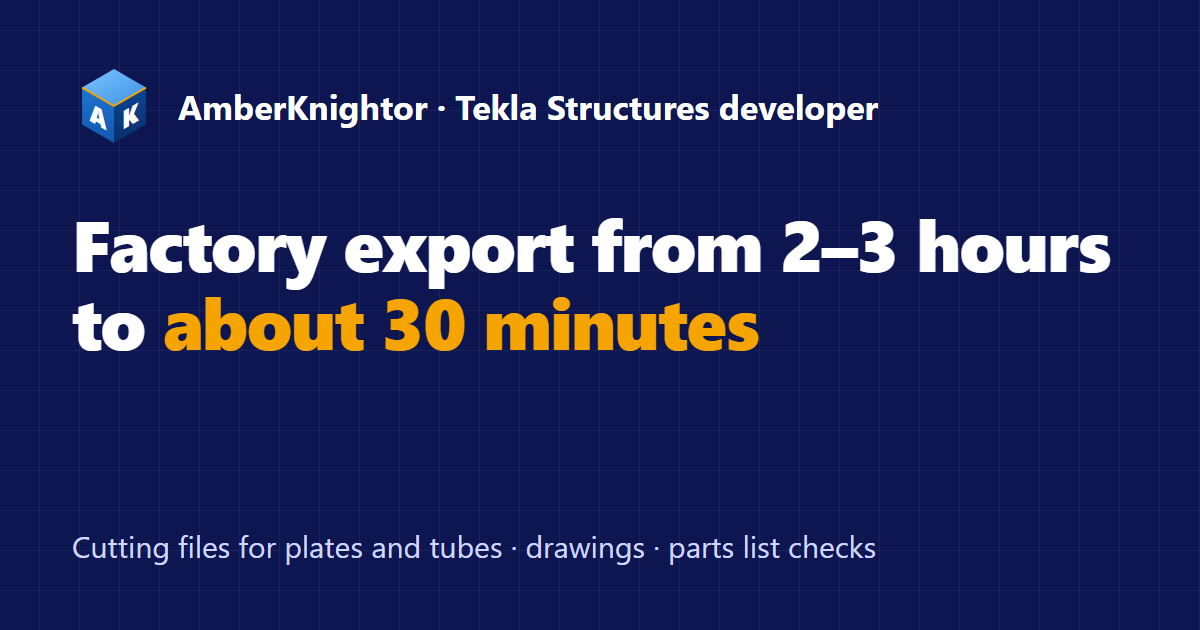
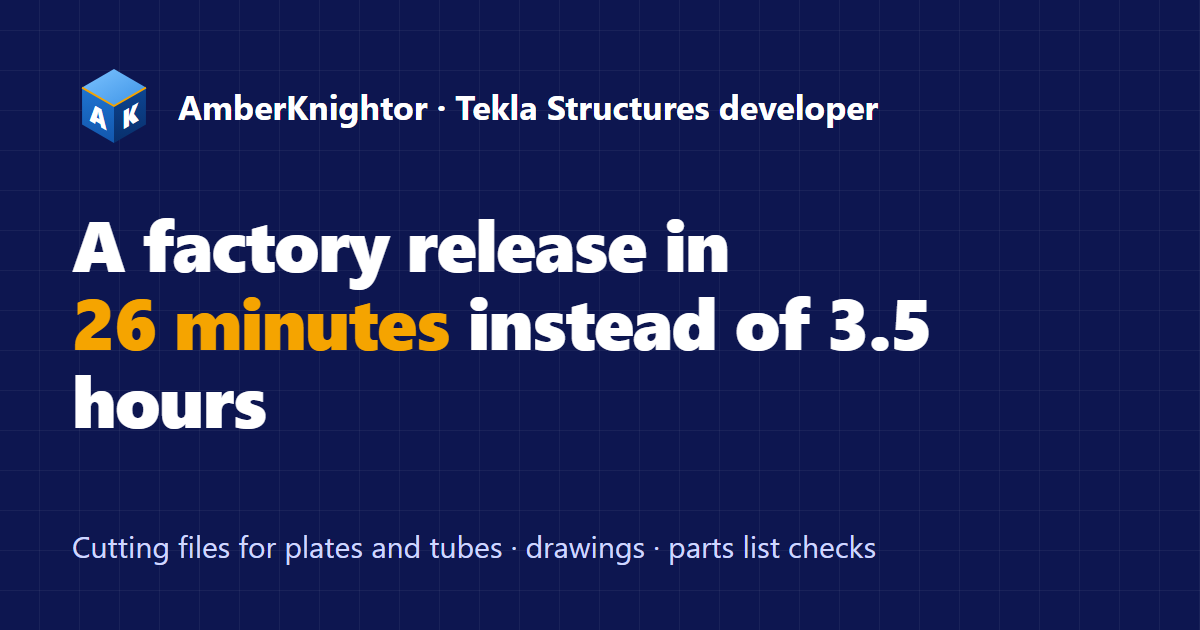
One set of numbers, Services heading, static video embeds, alt texts
The case study, hero and social card now tell the same story: one release
by one designer, about 3.5 hours by hand and about 26 minutes with the
tools, with the team saving derived from 10 designers and 3-4 releases a
month. Videos are plain iframes so they show without the script, the
workflow steps are no longer a numbered list, every image has alt text,
FAQ says all Tekla versions from 2016 and UTC+3, and the code sample link
is back now that its repository exists.

Changed region(s): [[0.0617, 0.3317, 0.925, 0.6937]]

diff --git a/index.html b/index.html
@@ -4,15 +4,15 @@
 <meta charset="utf-8">
 <meta name="viewport" content="width=device-width, initial-scale=1">
 <title>AmberKnightor — Tekla Structures Developer</title>
-<meta name="description" content="Tekla Open API tools, plugins and macros that cut the factory export from 2–3 hours to about 30 minutes per designer.">
+<meta name="description" content="Tekla Open API tools, plugins and macros that cut a factory release from about 3.5 hours to about 26 minutes per designer.">
 <meta property="og:title" content="AmberKnightor — Tekla Structures Developer">
-<meta property="og:description" content="Tekla Open API tools, plugins and macros: factory export from 2–3 hours down to ~30 minutes per designer.">
+<meta property="og:description" content="Tekla Open API tools, plugins and macros: a factory release from about 3.5 hours down to about 26 minutes per designer.">
 <link rel="canonical" href="https://amberknightor.github.io/">
 <meta property="og:url" content="https://amberknightor.github.io/">
 <meta property="og:image" content="https://amberknightor.github.io/assets/img/og-card.png">
 <meta property="og:image:width" content="1200">
 <meta property="og:image:height" content="630">
-<meta property="og:image:alt" content="AmberKnightor, Tekla Structures developer: factory export from 2–3 hours to about 30 minutes">
+<meta property="og:image:alt" content="AmberKnightor, Tekla Structures developer: factory release from about 3.5 hours to under 30 minutes">
 <meta property="og:type" content="website">
 <meta name="twitter:card" content="summary_large_image">
 <link rel="icon" href="favicon.ico" sizes="32x32">
@@ -27,7 +27,7 @@
 
 <header class="nav">
   <div class="wrap nav-row">
-    <a class="brand" href="#top"><img class="brand-logo" src="assets/img/logo-ak.svg" alt="" width="38" height="38"> AmberKnightor</a>
+    <a class="brand" href="#top"><img class="brand-logo" src="assets/img/logo-ak.svg" alt="AK logo" width="38" height="38"> AmberKnightor</a>
     <nav class="nav-links">
       <a href="#services">Services</a>
       <a href="#case">Case study</a>
@@ -51,7 +51,7 @@
         steel structures designer in Tekla, so I know from the inside every problem that comes up while
         building models and releasing data to the factory. For the last 3 years I have been building plugins,
         applications and macros that automate and simplify work in Tekla Structures.</p>
-      <h1>Tekla developer who turns a <span class="hl">3-hour factory export</span> into a 30-minute routine.</h1>
+      <h1>Tekla developer who turns a <span class="hl">3.5-hour factory release</span> into under 30 minutes.</h1>
       <p class="lead">I build desktop tools, plugins and macros on the Tekla Open API for a steel-structures
         design team: DXF for plate cutting, STEP for tube lasers, assembly drawings, reports and
         cross-checks — generated from the model and deployed to every workstation from one server folder.</p>
@@ -64,18 +64,18 @@
     </div>
 
     <div class="impact card">
-      <p class="impact-title">Factory data export, per designer</p>
+      <p class="impact-title">One factory release, one designer</p>
       <div class="bar-row">
         <span class="bar-label">Before</span>
-        <div class="bar"><div class="bar-fill before" style="--w:100%"><span>2–3 hours</span></div></div>
+        <div class="bar"><div class="bar-fill before" style="--w:100%"><span>≈ 3.5 hours</span></div></div>
       </div>
       <div class="bar-row">
         <span class="bar-label">After</span>
-        <div class="bar"><div class="bar-fill after" style="--w:20%"><span>~30 min</span></div></div>
+        <div class="bar"><div class="bar-fill after" style="--w:12%"><span>≈ 26 min</span></div></div>
       </div>
       <div class="impact-stats">
-        <div><strong>≈ 1 week</strong><span>saved every month for the design team</span></div>
-        <div><strong>5×</strong><span>faster release of cutting files, drawings and BOMs</span></div>
+        <div><strong>≈ 8×</strong><span>faster: about 3 hours saved on every release</span></div>
+        <div><strong>90–120 h</strong><span>saved a month for a team of 10 designers</span></div>
       </div>
     </div>
   </div>
@@ -126,7 +126,7 @@
 <section class="section alt" id="case">
   <div class="wrap">
     <h2>Case study: a steel structures design team</h2>
-    <p class="section-lead">How the release of data to the factory went from a half-day job to a short routine.</p>
+    <p class="section-lead">One factory release by one designer: about 3.5 hours by hand, about 26 minutes with the tools.</p>
     <div class="case-steps">
       <div class="card">
         <p class="case-label">Task</p>
@@ -144,30 +144,30 @@
     <div class="table-wrap">
       <table class="case-table">
         <thead>
-          <tr><th scope="col">Step</th><th scope="col">Batch</th><th scope="col">Before</th><th scope="col">After</th></tr>
+          <tr><th scope="col">Step</th><th scope="col">Batch</th><th scope="col">Before</th><th scope="col">After</th><th scope="col">Notes</th></tr>
         </thead>
         <tbody>
-          <tr><th scope="row">Plate cutting files</th><td>300 plates</td><td>≈ 30 min</td><td class="after">≈ 6 min <small>5 min automatic, 1 min review that is rarely needed</small></td></tr>
-          <tr><th scope="row">Tube cutting files</th><td>140 tubes</td><td>≈ 1 hour</td><td class="after">≈ 10 min <small>straightening and engraving included</small></td></tr>
-          <tr><th scope="row">Assembly drawings</th><td>100 assemblies</td><td>≈ 2 hours</td><td class="after">≈ 10 min <small>nearly finished drawings</small></td></tr>
+          <tr><th scope="row">Plate cutting files</th><td>300 plates</td><td>≈ 30 min</td><td class="after">≈ 6 min</td><td class="note">5 min automatic, plus 1 min of review that is rarely needed</td></tr>
+          <tr><th scope="row">Tube cutting files</th><td>140 tubes</td><td>≈ 1 hour</td><td class="after">≈ 10 min</td><td class="note">skewed cuts straightened and marks engraved automatically</td></tr>
+          <tr><th scope="row">Assembly drawings</th><td>100 assemblies</td><td>≈ 2 hours</td><td class="after">≈ 10 min</td><td class="note">drawings come out nearly finished</td></tr>
         </tbody>
         <tfoot>
-          <tr><th scope="row">All three</th><td></td><td>≈ 3.5 hours</td><td class="after">≈ 26 min</td></tr>
+          <tr><th scope="row">One release</th><td>one designer</td><td>≈ 3.5 hours</td><td class="after">≈ 26 min</td><td class="note">about 8× faster</td></tr>
         </tfoot>
       </table>
     </div>
-    <p class="case-note"><b>How to read these numbers.</b> They are practical estimates from production work for
-      batches of the sizes shown, not a timed study, and your own results will depend on the model. The 2–3 hours
-      at the top of this page is the usual full export for one designer; a release with all three batches at these
-      sizes takes longer.</p>
+    <p class="case-note"><b>How these numbers add up.</b> The times are one designer’s practical
+      estimates for a release with batches of the sizes shown, not a timed study. The team had about 10 designers,
+      and each released data to the factory 3–4 times a month. About 3 hours saved per release gives 9–12 hours
+      per designer a month, or roughly 90–120 hours for the team.</p>
   </div>
 </section>
 
 <!-- ============================================================ SERVICES -->
 <section class="section" id="services">
   <div class="wrap">
-    <h2>What I can do for you</h2>
-    <p class="section-lead">Most projects start small, so you can judge the result on your own parts before
+    <h2>Services</h2>
+    <p class="section-lead">What I can do for you. Most projects start small, so you can judge the result on your own parts before
       committing to more.</p>
     <div class="cards">
       <div class="card service">
@@ -195,33 +195,33 @@
     <h2>One model, one click per step</h2>
     <p class="section-lead">Each tool starts from the Tekla toolbar, reads the current selection through the
       Open API and writes straight into the project folder the factory receives.</p>
-    <ol class="pipeline">
-      <li class="stage">
+    <div class="pipeline">
+      <div class="stage">
         <span class="stage-num">1</span>
         <h3>Tekla model</h3>
         <p>Select plates, tubes or assemblies — or open the drawing list.</p>
-      </li>
-      <li class="stage">
-        <img src="assets/img/icon-report-checker.png" alt="" width="48" height="48">
+      </div>
+      <div class="stage">
+        <img src="assets/img/icon-report-checker.png" alt="Report checker icon" width="48" height="48">
         <h3>Report checker</h3>
         <p>DXF for plate cutting, BOMs in .xlsx, checks, tags, folder layout.</p>
-      </li>
-      <li class="stage">
-        <img src="assets/img/icon-convertstp.png" alt="" width="48" height="48">
+      </div>
+      <div class="stage">
+        <img src="assets/img/icon-convertstp.png" alt="Convertstp icon" width="48" height="48">
         <h3>Convertstp</h3>
         <p>STEP / IGES for the tube laser with engraved part marks.</p>
-      </li>
-      <li class="stage">
-        <img src="assets/img/icon-drawer.png" alt="" width="48" height="48">
+      </div>
+      <div class="stage">
+        <img src="assets/img/icon-drawer.png" alt="Drawer icon" width="48" height="48">
         <h3>Drawer</h3>
         <p>Assembly and bent-plate drawings built and dimensioned automatically.</p>
-      </li>
-      <li class="stage">
+      </div>
+      <div class="stage">
         <span class="stage-num">✓</span>
         <h3>Factory package</h3>
         <p>Checked against the BOMs, mismatches highlighted back in the model.</p>
-      </li>
-    </ol>
+      </div>
+    </div>
 <pre class="tree"><code>Project\
   0. BOMs\                      0. Shipping marks · 1. Plate parts · 2. Profile parts · 4. Assemblies · 6. Steel
   1. Parts\
@@ -242,7 +242,7 @@
   <!-- Report checker -->
   <article class="tool wrap" id="report-checker">
     <div class="tool-head">
-      <img src="assets/img/icon-report-checker.png" alt="" width="64" height="64">
+      <img src="assets/img/icon-report-checker.png" alt="Report checker icon" width="64" height="64">
       <div>
         <h3>Report checker</h3>
         <p class="tool-sub">Plate DXF export, Tekla reports to .xlsx and cross-checks · Python + C# helper</p>
@@ -266,7 +266,7 @@
             missing, extra and wrong-quantity files are listed and the parts are <i>selected in Tekla</i>.</li>
           <li><b>Factory-ready folders.</b> Files renamed to <code>position_thickness_qty</code>, sorted by steel grade,
             thickness, tube type and profile; shipping tags generated as DXF.</li>
-          <li><b>Any Tekla version.</b> Open API assemblies are loaded from the running Tekla (2016 → 2024 layouts),
+          <li><b>Every Tekla version from 2016.</b> Open API assemblies are loaded from the running Tekla, old and new folder layouts alike,
             so one exe serves the whole team.</li>
         </ul>
       </div>
@@ -276,16 +276,14 @@
         <a href="assets/img/otchet-viewer.png" class="zoom"><img src="assets/img/otchet-viewer.png" alt="DXF viewer with plate contour, holes and the position mark" loading="lazy"></a>
         <figcaption>Built-in DXF viewer: every plate in the cutting folder, marks checked for collisions.</figcaption>
       </figure>
-      <div class="video-slot" data-youtube="R72VR7GYjIA" data-title="Report checker walkthrough">
-        <a href="https://www.youtube.com/watch?v=R72VR7GYjIA" target="_blank" rel="noopener">Watch the walkthrough on YouTube</a>
-      </div>
+      <div class="video-slot has-video"><iframe src="https://www.youtube-nocookie.com/embed/R72VR7GYjIA" title="Report checker: DXF plate export, Excel BOMs and automatic checks" loading="lazy" referrerpolicy="strict-origin-when-cross-origin" allow="accelerometer; encrypted-media; gyroscope; picture-in-picture" allowfullscreen></iframe></div>
     </div>
   </article>
 
   <!-- Convertstp -->
   <article class="tool wrap" id="convertstp">
     <div class="tool-head">
-      <img src="assets/img/icon-convertstp.png" alt="" width="64" height="64">
+      <img src="assets/img/icon-convertstp.png" alt="Convertstp icon" width="64" height="64">
       <div>
         <h3>Convertstp</h3>
         <p class="tool-sub">Tekla tubes → STEP / IGES for tube laser cutting · C# WinForms</p>
@@ -317,16 +315,14 @@
         <a href="assets/img/convertstp-engraving.png" class="zoom"><img src="assets/img/convertstp-engraving.png" alt="Engraving batch preview with tube faces and part marks" loading="lazy"></a>
         <figcaption>Engraving batch preview: tube faces to scale with the engraved part marks.</figcaption>
       </figure>
-      <div class="video-slot" data-youtube="OGKl_QOARAg" data-title="Convertstp walkthrough">
-        <a href="https://www.youtube.com/watch?v=OGKl_QOARAg" target="_blank" rel="noopener">Watch the walkthrough on YouTube</a>
-      </div>
+      <div class="video-slot has-video"><iframe src="https://www.youtube-nocookie.com/embed/OGKl_QOARAg" title="Convertstp: Tekla tubes to STEP and IGES with engraved part marks" loading="lazy" referrerpolicy="strict-origin-when-cross-origin" allow="accelerometer; encrypted-media; gyroscope; picture-in-picture" allowfullscreen></iframe></div>
     </div>
   </article>
 
   <!-- Drawer -->
   <article class="tool wrap" id="drawer">
     <div class="tool-head">
-      <img src="assets/img/icon-drawer.png" alt="" width="64" height="64">
+      <img src="assets/img/icon-drawer.png" alt="Drawer icon" width="64" height="64">
       <div>
         <h3>Drawer</h3>
         <p class="tool-sub">Automatic assembly and bent-plate drawings · C# · Tekla Drawing API</p>
@@ -359,9 +355,7 @@
         <a href="assets/img/drawer-bent.png" class="zoom"><img src="assets/img/drawer-bent.png" alt="Bent plate drawing with unfolded shape, bend line and radius" loading="lazy"></a>
         <figcaption>Bent plate: unfolded shape with the bend line, side views with radius, 3D view.</figcaption>
       </figure>
-      <div class="video-slot" data-youtube="fczEOQlvuvE" data-title="Drawer walkthrough">
-        <a href="https://www.youtube.com/watch?v=fczEOQlvuvE" target="_blank" rel="noopener">Watch the walkthrough on YouTube</a>
-      </div>
+      <div class="video-slot has-video"><iframe src="https://www.youtube-nocookie.com/embed/fczEOQlvuvE" title="Drawer: automatic assembly and bent-plate drawings in Tekla" loading="lazy" referrerpolicy="strict-origin-when-cross-origin" allow="accelerometer; encrypted-media; gyroscope; picture-in-picture" allowfullscreen></iframe></div>
     </div>
   </article>
 </section>
@@ -374,11 +368,11 @@
       launcher macros and a custom tab in <i>Applications &amp; components</i>.</p>
 
     <div class="icons-row">
-      <figure><img src="assets/img/icon-report-checker.png" alt="" width="72" height="72"><figcaption>Report checker</figcaption></figure>
-      <figure><img src="assets/img/icon-convertstp.png" alt="" width="72" height="72"><figcaption>Convertstp</figcaption></figure>
-      <figure><img src="assets/img/icon-drawer.png" alt="" width="72" height="72"><figcaption>Drawer</figcaption></figure>
-      <figure><img src="assets/img/icon-import-components.png" alt="" width="72" height="72"><figcaption>Import components</figcaption></figure>
-      <figure><img src="assets/img/icon-import-plugins.png" alt="" width="72" height="72"><figcaption>Import plugins</figcaption></figure>
+      <figure><img src="assets/img/icon-report-checker.png" alt="Report checker icon" width="72" height="72"><figcaption>Report checker</figcaption></figure>
+      <figure><img src="assets/img/icon-convertstp.png" alt="Convertstp icon" width="72" height="72"><figcaption>Convertstp</figcaption></figure>
+      <figure><img src="assets/img/icon-drawer.png" alt="Drawer icon" width="72" height="72"><figcaption>Drawer</figcaption></figure>
+      <figure><img src="assets/img/icon-import-components.png" alt="Import components macro icon" width="72" height="72"><figcaption>Import components</figcaption></figure>
+      <figure><img src="assets/img/icon-import-plugins.png" alt="Import plugins macro icon" width="72" height="72"><figcaption>Import plugins</figcaption></figure>
     </div>
     <p class="caption-center">Custom macro icons in the company tab of the Tekla catalog.</p>
 
@@ -466,7 +460,7 @@
       </ul>
     </div>
     <div class="card plugin-card">
-      <img src="assets/img/icon-import-plugins.png" alt="" width="96" height="96">
+      <img src="assets/img/icon-import-plugins.png" alt="Import plugins macro icon" width="96" height="96">
       <h3>Why it matters</h3>
       <p>A plugin re-runs whenever the model changes. Shipping a new plugin version to a workstation in the
         middle of a project could silently rebuild parts and break part numbering — so the distribution
@@ -501,7 +495,7 @@
     <h2>FAQ</h2>
     <details open>
       <summary>Which Tekla versions do you support?</summary>
-      <p>All versions of Tekla Structures from 2016 onward.</p>
+      <p>All versions of Tekla Structures from 2016 onward, including the current ones.</p>
     </details>
     <details>
       <summary>Do you need access to our model? Will you sign an NDA?</summary>
@@ -517,26 +511,22 @@
       <p>Scope, price and payment terms are agreed for each project before work starts.</p>
     </details>
     <details>
-      <summary>What language do you work in?</summary>
-      <p>English and Russian.</p>
+      <summary>What language and time zone do you work in?</summary>
+      <p>English and Russian, from the UTC+3 time zone.</p>
     </details>
   </div>
 </section>
 
 <!-- ============================================================ ABOUT -->
 <section class="section alt" id="about">
-  <div class="wrap about-grid">
-    <!-- To use a portrait: save it as assets/img/photo.jpg and point this src at it -->
-    <img class="about-photo" src="assets/img/logo-ak.svg" alt="" width="160" height="160">
+  <div class="wrap about">
     <div>
       <h2>About me</h2>
       <p class="about-name">Dmitriy Kalinin</p>
       <p>Almost 10 years as a steel structures designer in Tekla and 3 years as a Tekla developer. I build these
         tools from the point of view of the person who has to release the data to the factory on time.</p>
-      <!-- SAMPLE-LINK: enable once the repo exists
-      <p>Want to see how the code looks? <a href="https://github.com/AmberKnightor/tekla-plate-dxf-export" target="_blank" rel="noopener">tekla-plate-dxf-export</a>
+            <p>Want to see how the code looks? <a href="https://github.com/AmberKnightor/tekla-plate-dxf-export" target="_blank" rel="noopener">tekla-plate-dxf-export</a>
         on GitHub is a small working sample: plate export from Tekla to DXF.</p>
-      -->
     </div>
   </div>
 </section>
@@ -564,7 +554,7 @@
 
 <div class="lightbox" id="lightbox" hidden>
   <button class="lightbox-close" aria-label="Close">×</button>
-  <img alt="">
+  <img alt="Enlarged screenshot">
 </div>
 
 <script src="assets/js/main.js"></script>

diff --git a/assets/css/style.css b/assets/css/style.css
@@ -31,7 +31,7 @@
 
 * { box-sizing: border-box; }
 /* grid/flex children may shrink below their content (long code lines, wide images) */
-.hero-grid > *, .two-col > *, .tool-grid > *, .gallery > *, .pipeline > *, .cards > *, .stack > *, .about-grid > * { min-width: 0; }
+.hero-grid > *, .two-col > *, .tool-grid > *, .gallery > *, .pipeline > *, .cards > *, .stack > *, .about > * { min-width: 0; }
 body { overflow-x: hidden; }
 html { scroll-behavior: smooth; scroll-padding-top: 72px; }
 body {
@@ -213,13 +213,13 @@ h1 { font-size: clamp(2rem, 4.6vw, 3.3rem); letter-spacing: -.03em; font-weight:
 .case-steps p:last-child, .service p:last-child { margin-bottom: 0; }
 .case-label { margin: 0 0 8px; font: 600 .78rem var(--mono); letter-spacing: .06em; text-transform: uppercase; color: var(--navy); }
 .table-wrap { overflow-x: auto; background: var(--surface); border: 1px solid var(--line); border-radius: var(--radius); }
-.case-table { width: 100%; min-width: 620px; border-collapse: collapse; }
+.case-table { width: 100%; min-width: 760px; border-collapse: collapse; }
 .case-table th, .case-table td { padding: 14px 18px; text-align: left; vertical-align: top; border-bottom: 1px solid var(--line); }
 .case-table thead th { color: var(--muted); font-size: .85rem; font-weight: 600; }
 .case-table tbody th { font-weight: 600; }
 .case-table tfoot th, .case-table tfoot td { border-bottom: 0; font-weight: 800; }
 .case-table .after { color: var(--good); font-weight: 700; }
-.case-table small { display: block; color: var(--muted); font-weight: 400; font-size: .84rem; }
+.case-table .note { color: var(--muted); font-size: .9rem; }
 @media (prefers-color-scheme: dark) { .case-table .after { color: #4cc98a; } }
 .case-note { margin: 18px 0 0; max-width: 78ch; color: var(--muted); font-size: .95rem; }
 .case-note b { color: var(--text); }
@@ -234,12 +234,10 @@ h1 { font-size: clamp(2rem, 4.6vw, 3.3rem); letter-spacing: -.03em; font-weight:
 .faq details p { margin: 0; padding: 0 18px 16px; color: var(--muted); }
 
 /* about */
-.about-grid { display: grid; grid-template-columns: 160px minmax(0, 68ch); gap: 36px; align-items: center; }
-@media (max-width: 620px) { .about-grid { grid-template-columns: 1fr; gap: 18px; } }
-.about-photo { width: 160px; height: 160px; object-fit: cover; }
-.about-grid h2 { margin-bottom: .25em; }
+.about p { max-width: 72ch; }
+.about h2 { margin-bottom: .25em; }
 .about-name { margin: 0 0 12px; font-weight: 700; color: var(--navy); }
-.about-grid p:last-child { margin-bottom: 0; }
+.about p:last-child { margin-bottom: 0; }
 
 /* lightbox */
 .lightbox { position: fixed; inset: 0; z-index: 50; background: rgba(5, 8, 20, .88); display: grid; place-items: center; padding: 24px; }
